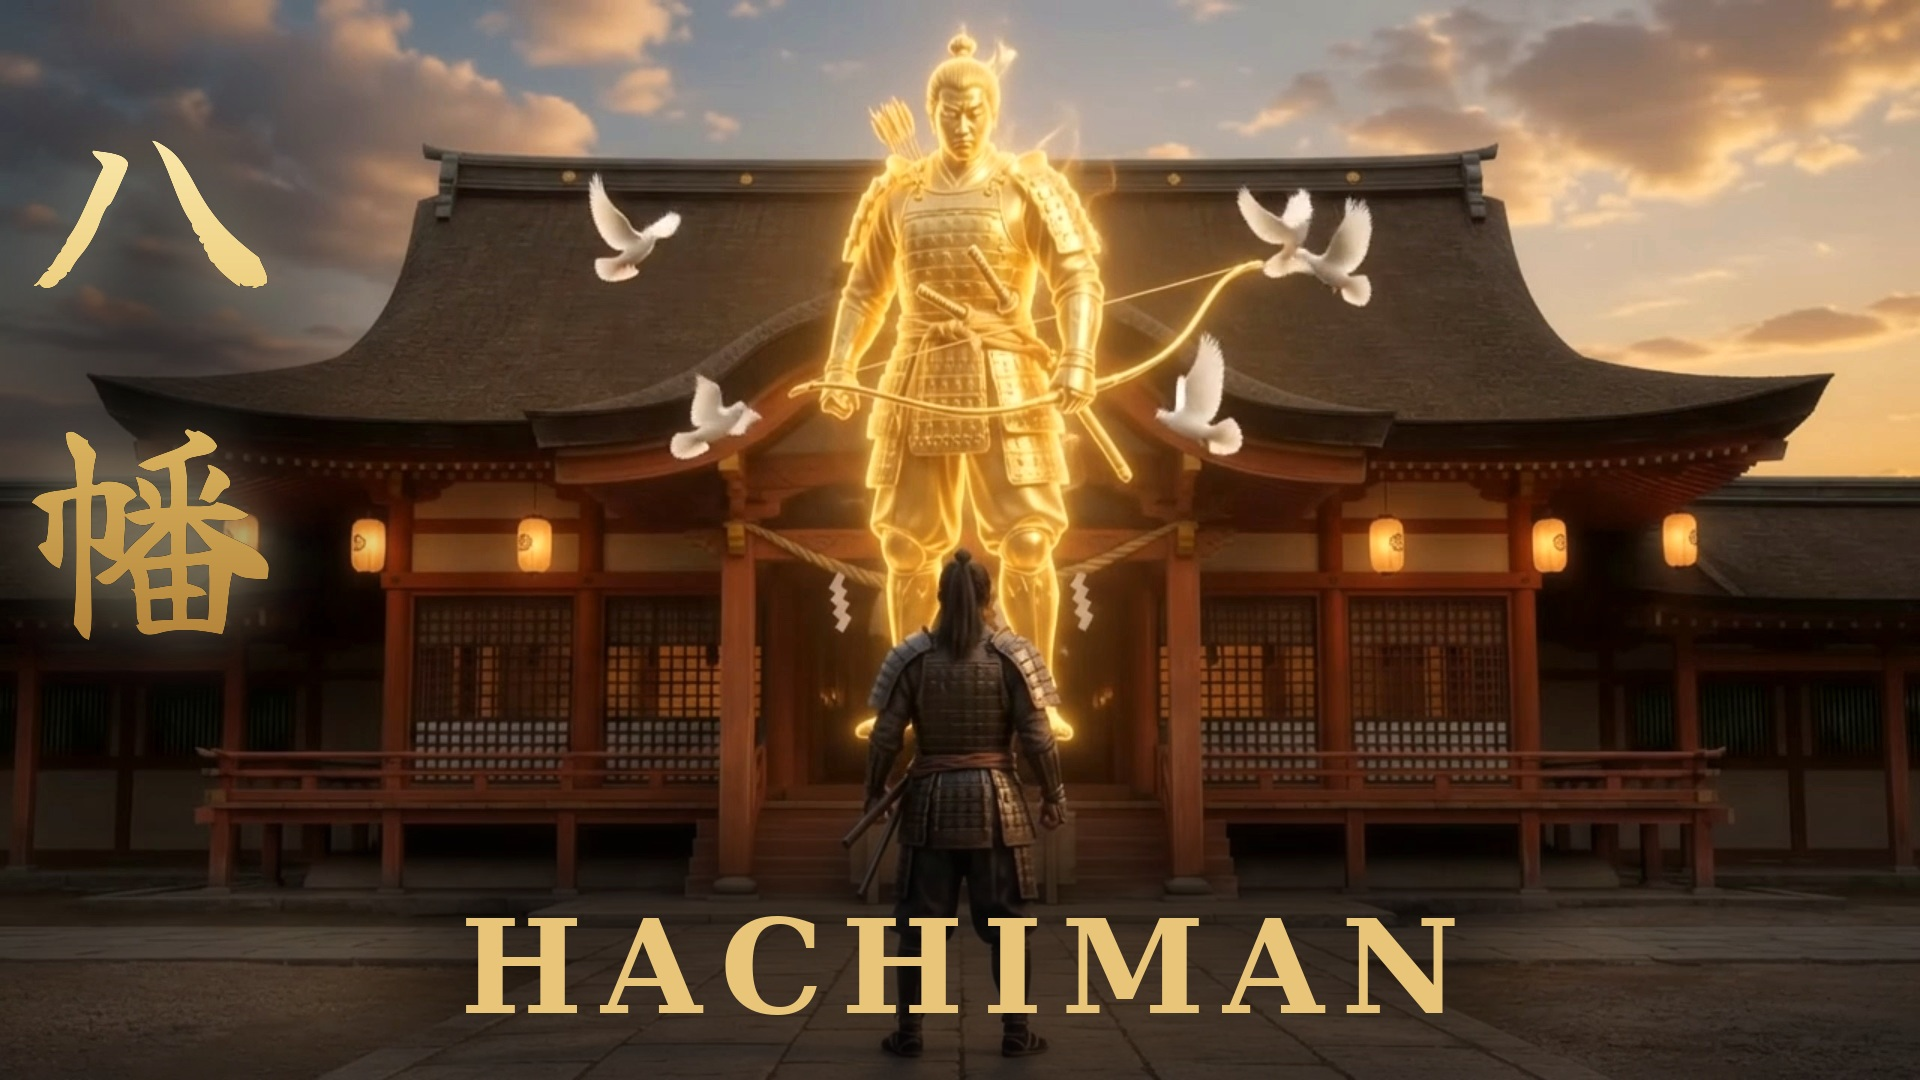
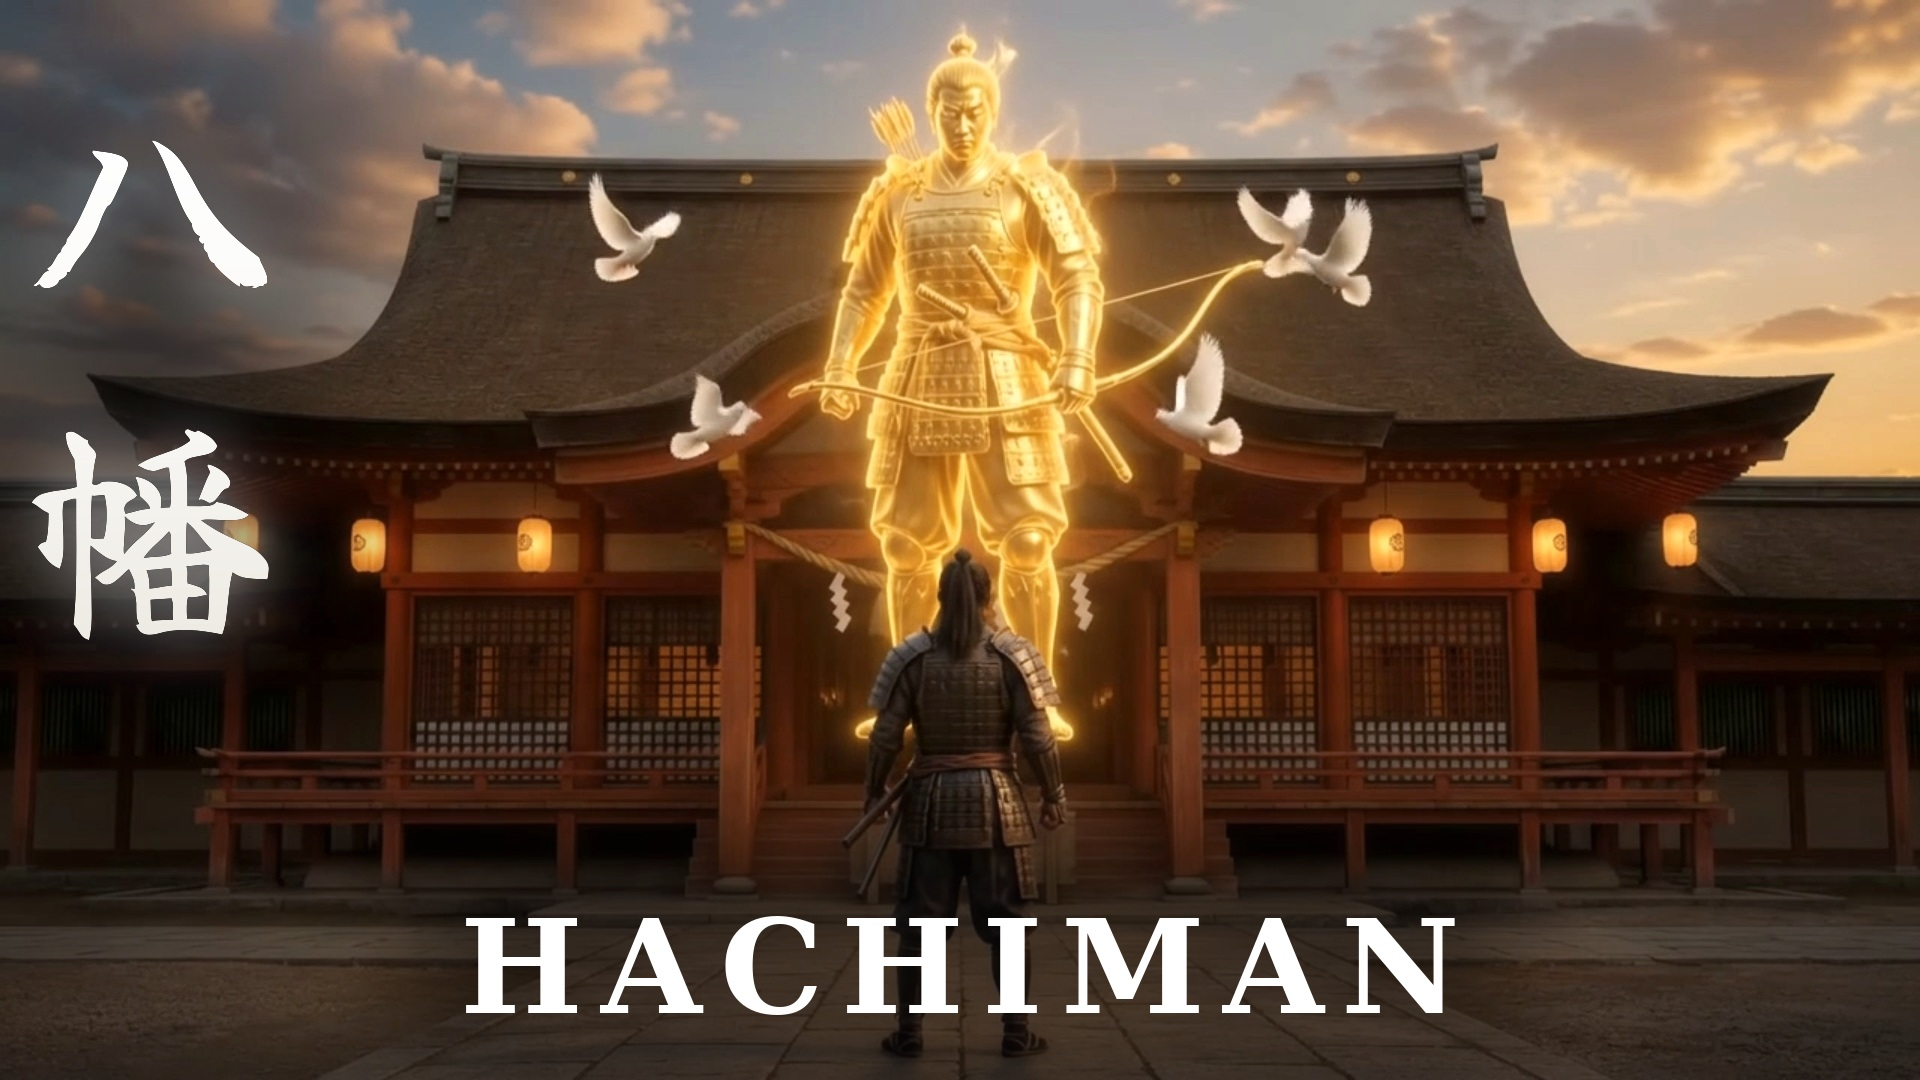
HACHIMAN thumbnail: switch text to white (gold disappeared into the golden spirit)
Same lesson as AMATERASU -- gold text has no contrast against this
hero's own golden glow. Switched both the kanji and wordmark to white.

Claude-Session: https://claude.ai/code/session_014rUxCAgr4C7iAmMHbP4fFt

diff --git a/stillwave/assets/hachiman-compose-thumb.py b/stillwave/assets/hachiman-compose-thumb.py
@@ -1,9 +1,10 @@
 #!/usr/bin/env python3
-"""HACHIMAN thumbnail — 八幡 gold calligraphic, VERTICAL stack in the left
-corner, matching the KAMI/RYU series treatment (cloned from the FIXED
-tsukuyomi-compose-thumb.py, so the corrected gold_kanji_v bounds formula
-is used from the start). HACHIMAN large gold serif low-centre on the dark
-foreground stone courtyard.
+"""HACHIMAN thumbnail — 八幡 WHITE calligraphic (gold text disappeared into
+this hero's own golden-spirit glow, same lesson as AMATERASU), VERTICAL
+stack in the left corner, matching the KAMI/RYU series treatment (cloned
+from the FIXED tsukuyomi-compose-thumb.py, so the corrected gold_kanji_v
+bounds formula is used from the start). HACHIMAN large white serif
+low-centre on the dark foreground stone courtyard.
 """
 from PIL import Image, ImageDraw, ImageFont, ImageFilter, ImageEnhance, ImageChops
 
@@ -12,8 +13,8 @@ KANJI = "/home/user/dan-documents/stillwave/assets/fonts/YujiSyuku-Regular.ttf"
 SERIF = "/usr/share/fonts/truetype/dejavu/DejaVuSerif-Bold.ttf"
 OUT = "/home/user/dan-documents/stillwave/assets/hachiman-2h-thumb.jpg"
 W, H = 1920, 1080
-GOLD = (232, 197, 120, 255)
-GOLD_STOPS = [(0.00, (250, 231, 170)), (0.45, (232, 196, 108)), (1.00, (180, 132, 58))]
+WHITE = (255, 255, 255, 255)
+WHITE_STOPS = [(0.00, (255, 255, 255)), (0.5, (250, 249, 246)), (1.00, (238, 235, 228))]
 
 
 def base():
@@ -39,15 +40,15 @@ def base():
     return im.convert("RGBA")
 
 
-def _lerp_gold(f):
+def _lerp_white(f):
     f = max(0.0, min(1.0, f))
-    for i in range(len(GOLD_STOPS) - 1):
-        f0, c0 = GOLD_STOPS[i]
-        f1, c1 = GOLD_STOPS[i + 1]
+    for i in range(len(WHITE_STOPS) - 1):
+        f0, c0 = WHITE_STOPS[i]
+        f1, c1 = WHITE_STOPS[i + 1]
         if f <= f1:
             t = (f - f0) / (f1 - f0)
             return tuple(int(c0[k] + (c1[k] - c0[k]) * t) for k in range(3))
-    return GOLD_STOPS[-1][1]
+    return WHITE_STOPS[-1][1]
 
 
 def gold_kanji_v(im, chars, size, cx, top_y, pitch, halo=30):
@@ -69,12 +70,12 @@ def gold_kanji_v(im, chars, size, cx, top_y, pitch, halo=30):
                                          radius=110, fill=(4, 5, 8, 150))
     im.alpha_composite(sc.filter(ImageFilter.GaussianBlur(80)))
     glow = Image.new("RGBA", (W, H), (0, 0, 0, 0))
-    glow.paste((250, 235, 190, 255), (0, 0), mask.filter(ImageFilter.GaussianBlur(halo)).point(lambda p: int(p * 0.6)))
+    glow.paste((255, 255, 255, 255), (0, 0), mask.filter(ImageFilter.GaussianBlur(halo)).point(lambda p: int(p * 0.6)))
     im.alpha_composite(glow)
     span = max(1, int(bot - top))
     col = Image.new("RGB", (1, span))
     for yy in range(span):
-        col.putpixel((0, yy), _lerp_gold(yy / span))
+        col.putpixel((0, yy), _lerp_white(yy / span))
     grad = Image.new("RGBA", (W, H), (0, 0, 0, 0))
     grad.paste(col.resize((W, span)).convert("RGBA"), (0, int(top)))
     im.alpha_composite(Image.composite(grad, Image.new("RGBA", (W, H), (0, 0, 0, 0)), mask))
@@ -82,7 +83,7 @@ def gold_kanji_v(im, chars, size, cx, top_y, pitch, halo=30):
     return top, bot
 
 
-def spaced_centre(im, text, size, cx, y, fill=GOLD, ls=16, font=SERIF, scrim=True):
+def spaced_centre(im, text, size, cx, y, fill=WHITE, ls=16, font=SERIF, scrim=True):
     f = ImageFont.truetype(font, size)
     d = ImageDraw.Draw(im)
     widths = [d.textlength(c, font=f) for c in text]
@@ -101,10 +102,10 @@ def spaced_centre(im, text, size, cx, y, fill=GOLD, ls=16, font=SERIF, scrim=Tru
 
 im = base()
 CENTRE = 960
-# 八幡 — VERTICAL calligraphic gold, left corner, clear of the doves (which sit
+# 八幡 — VERTICAL calligraphic white, left corner, clear of the doves (which sit
 # further right in this composition)
 gold_kanji_v(im, ["八", "幡"], 240, 150, 140, pitch=288, halo=32)
-# HACHIMAN — large gold serif, low-centre on the dark foreground stone courtyard
-spaced_centre(im, "HACHIMAN", 130, CENTRE, 890, fill=GOLD, ls=18, font=SERIF)
+# HACHIMAN — large white serif, low-centre on the dark foreground stone courtyard
+spaced_centre(im, "HACHIMAN", 130, CENTRE, 890, fill=WHITE, ls=18, font=SERIF)
 im.convert("RGB").save(OUT, quality=94)
 print("saved", OUT)
